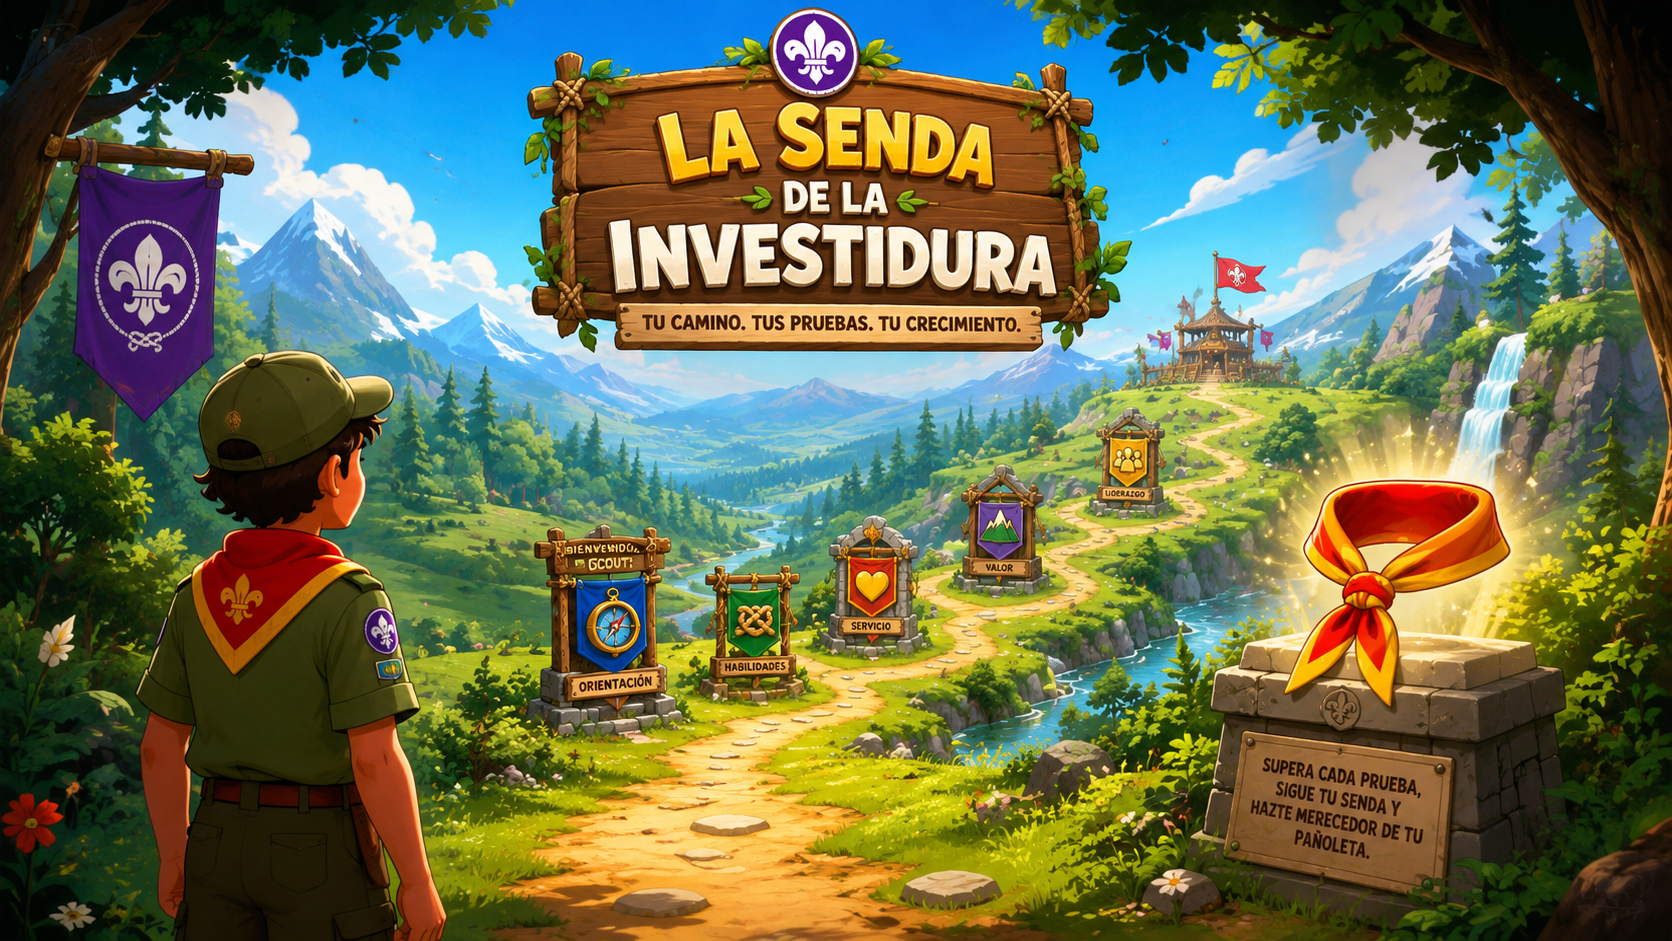
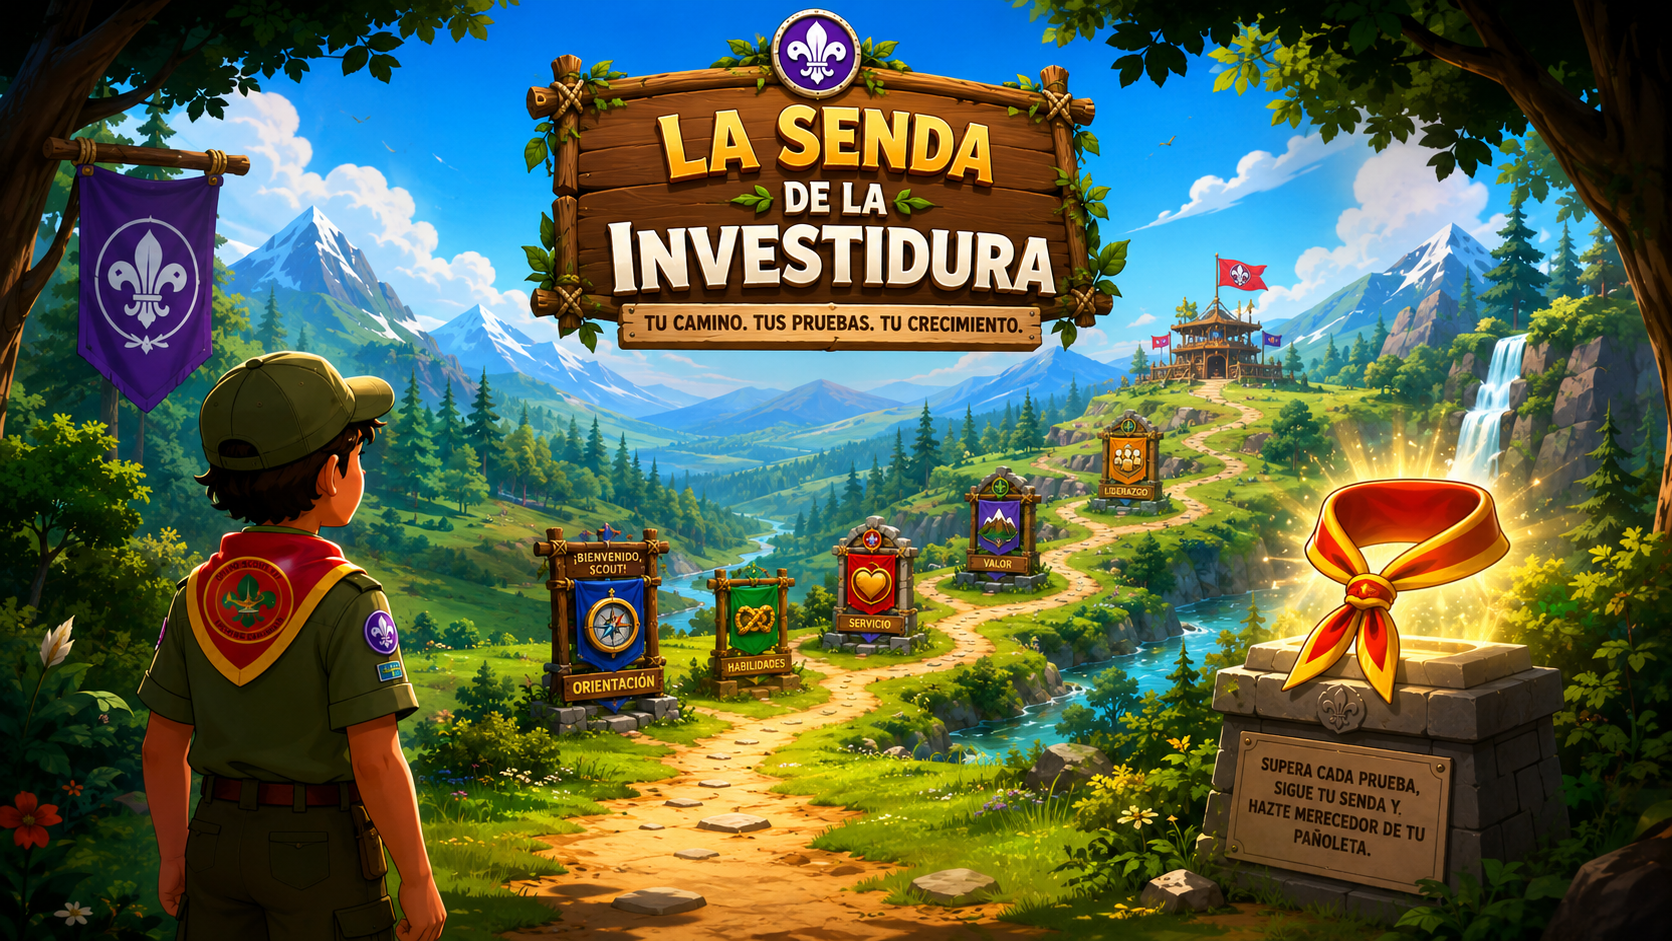
assets: actualizar fondo del mapa de la Senda (Fondo_Mapa_Senda1.png)
Nueva imagen para la pantalla del mapa de la senda de investidura.
Godot reimportó la imagen automáticamente, se incluye el export web actualizado.

diff --git a/export/web/index.html b/export/web/index.html
@@ -111,7 +111,7 @@ body {
 
 		<script src="index.js"></script>
 		<script>
-const GODOT_CONFIG = {"args":[],"canvasResizePolicy":2,"emscriptenPoolSize":8,"ensureCrossOriginIsolationHeaders":true,"executable":"index","experimentalVK":false,"fileSizes":{"index.pck":59424884,"index.wasm":39509339},"focusCanvas":true,"gdextensionLibs":[],"godotPoolSize":4};
+const GODOT_CONFIG = {"args":[],"canvasResizePolicy":2,"emscriptenPoolSize":8,"ensureCrossOriginIsolationHeaders":true,"executable":"index","experimentalVK":false,"fileSizes":{"index.pck":59450260,"index.wasm":39509339},"focusCanvas":true,"gdextensionLibs":[],"godotPoolSize":4};
 const GODOT_THREADS_ENABLED = false;
 const engine = new Engine(GODOT_CONFIG);
 